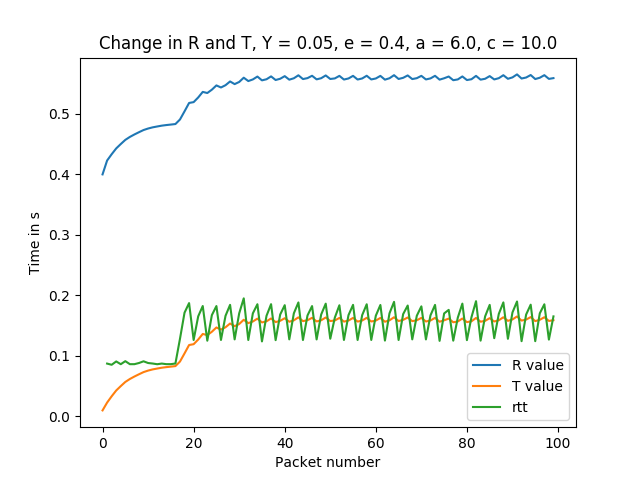
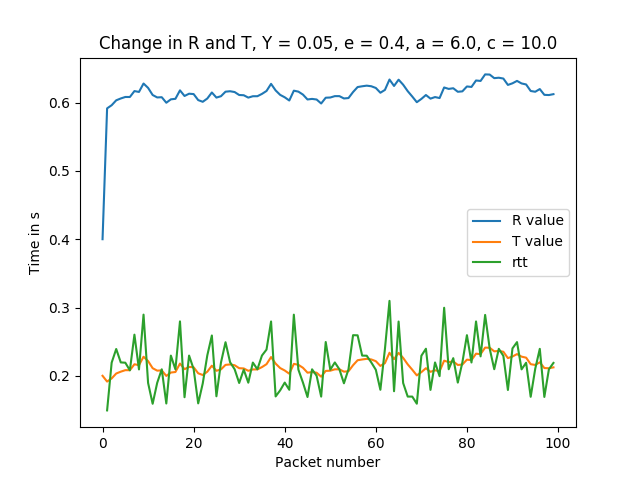
added jitter and formatting

diff --git a/assignment1/srcs/client.py b/assignment1/srcs/client.py
@@ -19,7 +19,8 @@
 ##
 #############################################################################
 import matplotlib as mpl
-mpl.use('Agg')
+
+mpl.use("Agg")
 
 from scapy.all import *
 import matplotlib.pyplot as plt
@@ -40,35 +41,34 @@ class Client3WH:
         # selecting a source port at random
         self.sport = random.randrange(0, 2**16)
 
-        self.next_seq = 0                       # TCP's next sequence number
-        self.next_ack = 0                       # TCP's next acknowledgement number
+        self.next_seq = 0  # TCP's next sequence number
+        self.next_ack = 0  # TCP's next acknowledgement number
 
-        self.ip = IP(dst=self.dip)              # IP header
+        self.ip = IP(dst=self.dip)  # IP header
 
         self.connected = False
         self.timeout = 3
 
-        #New stuff
-        self.R = 0.4 #Our timeout that adapts
+        # New stuff
+        self.R = 0.4  # Our timeout that adapts
         self.a = 6.0
         self.c = 10.0
         self.b = (self.a - 1) / self.a
         self.d = (self.c - 1) / self.c
-        self.Y = 0.05 #Retransmission limit
-        self.e = 0.4 #Small constant
+        self.Y = 0.05  # Retransmission limit
+        self.e = 0.4  # Small constant
 
-        self.T = 0.02 #Smoothed RTT
-        self.V = 0.01 #Variance 
+        self.T = 0.2  # Smoothed RTT
+        self.V = 0.01  # Variance
 
         self.avg_t = 0
-        
+
         self.timeouts = 0
-        
+
         self.rg = [self.R]
         self.tg = [self.T]
         self.rttg = []
         self.x_axis = [0]
-
 
     def _start_sniffer(self):
         t = threading.Thread(target=self._sniffer)
@@ -81,16 +81,20 @@ class Client3WH:
 
     def _sniffer(self):
         while self.connected:
-            sniff(prn=lambda x: self._handle_packet(
-                x), lfilter=lambda x: self._filter(x), count=1, timeout=self.timeout)
+            sniff(
+                prn=lambda x: self._handle_packet(x),
+                lfilter=lambda x: self._filter(x),
+                count=1,
+                timeout=self.timeout,
+            )
 
     def _handle_packet(self, pkt):
         """TODO(1): Handle incoming packets from the server and acknowledge them accordingly. Here are some pointers on
-           what you need to do:
-           1. If the incoming packet has data (or payload), send an acknowledgement (TCP) packet with correct 
-              `sequence` and `acknowledgement` numbers.
-           2. If the incoming packet is a FIN (or FINACK) packet, send an appropriate acknowledgement or FINACK packet
-              to the server with correct `sequence` and `acknowledgement` numbers.
+        what you need to do:
+        1. If the incoming packet has data (or payload), send an acknowledgement (TCP) packet with correct
+           `sequence` and `acknowledgement` numbers.
+        2. If the incoming packet is a FIN (or FINACK) packet, send an appropriate acknowledgement or FINACK packet
+           to the server with correct `sequence` and `acknowledgement` numbers.
         """
 
         ### BEGIN: ADD YOUR CODE HERE ... ###
@@ -98,158 +102,146 @@ class Client3WH:
         if TCP in pkt:
             tcp_layer = pkt[TCP]
             ip_src = pkt[IP].src
-            if (ip_src == self.dip): #Filter out outgoing packets
-                #pkt.show()
+            if ip_src == self.dip:  # Filter out outgoing packets
+                # pkt.show()
 
-                if tcp_layer.flags == 'F':  
-                    self.next_ack = tcp_layer.seq + 1  
-                    finack_pkt = self.ip/TCP(sport=self.sport, dport=self.dport, flags='FA', seq=self.next_seq, ack=self.next_ack)
-                    send(ack_pkt)
-                    self.next_seq += 1
-
-
-                if tcp_layer.flags == 'FA':  
+                if tcp_layer.flags == "F":
                     self.next_ack = tcp_layer.seq + 1
-                    ack_pkt = self.ip/TCP(sport=self.sport, dport=self.dport, flags='A', seq=self.next_seq, ack=self.next_ack)
+                    finack_pkt = self.ip / TCP(
+                        sport=self.sport,
+                        dport=self.dport,
+                        flags="FA",
+                        seq=self.next_seq,
+                        ack=self.next_ack,
+                    )
                     send(ack_pkt)
                     self.next_seq += 1
-        
-        
-        
-        
-        
-        
-        
-        
-        
-        
-        
-        
-        
-        
-        
-        
+
+                if tcp_layer.flags == "FA":
+                    self.next_ack = tcp_layer.seq + 1
+                    ack_pkt = self.ip / TCP(
+                        sport=self.sport,
+                        dport=self.dport,
+                        flags="A",
+                        seq=self.next_seq,
+                        ack=self.next_ack,
+                    )
+                    send(ack_pkt)
+                    self.next_seq += 1
 
         ### END: ADD YOUR CODE HERE ... #####
 
     def connect(self):
         """TODO(2): Implement TCP's three-way-handshake protocol for establishing a connection. Here are some
-           pointers on what you need to do:
-           1. Handle SYN -> SYNACK -> ACK packets.
-           2. Make sure to update the `sequence` and `acknowledgement` numbers correctly, along with the 
-              TCP `flags`.
+        pointers on what you need to do:
+        1. Handle SYN -> SYNACK -> ACK packets.
+        2. Make sure to update the `sequence` and `acknowledgement` numbers correctly, along with the
+           TCP `flags`.
         """
 
         ### BEGIN: ADD YOUR CODE HERE ... ###
-        
-        syn_pkt = self.ip/TCP(sport=self.sport, dport=self.dport, flags='S', seq=self.next_seq)
-        self.next_seq += 1  
+
+        syn_pkt = self.ip / TCP(
+            sport=self.sport, dport=self.dport, flags="S", seq=self.next_seq
+        )
+        self.next_seq += 1
         send(syn_pkt)
 
         bpf_filter = "tcp and host {} and port {}".format(self.dip, self.dport)
         synack_pkt = sniff(filter=bpf_filter, count=1)[0]
 
-        #while (synack_pkt[TCP].flags != 18):
-            #synack_pkt = sniff(filter=bpf_filter, count=1)[0]
-        self.next_ack = synack_pkt[TCP].seq + 1  
-        ack_pkt = self.ip/TCP(sport=self.sport, dport=self.dport, flags='A', seq=self.next_seq, ack=self.next_ack)
+        # while (synack_pkt[TCP].flags != 18):
+        # synack_pkt = sniff(filter=bpf_filter, count=1)[0]
+        self.next_ack = synack_pkt[TCP].seq + 1
+        ack_pkt = self.ip / TCP(
+            sport=self.sport,
+            dport=self.dport,
+            flags="A",
+            seq=self.next_seq,
+            ack=self.next_ack,
+        )
         send(ack_pkt)
-
-        
-        
-        
-        
-        
-        
-        
-        
-        
-        
-        
-        
-        
-        
-        
-        
-        
 
         ### END: ADD YOUR CODE HERE ... #####
 
         self.connected = True
         self._start_sniffer()
-        print('Connection Established')
+        print("Connection Established")
 
     def close(self):
         """TODO(3): Implement TCP's three-way-handshake protocol for closing a connection. Here are some
-           pointers on what you need to do:
-           1. Handle FIN -> FINACK -> ACK packets.
-           2. Make sure to update the `sequence` and `acknowledgement` numbers correctly, along with the 
-              TCP `flags`.
+        pointers on what you need to do:
+        1. Handle FIN -> FINACK -> ACK packets.
+        2. Make sure to update the `sequence` and `acknowledgement` numbers correctly, along with the
+           TCP `flags`.
         """
 
         ### BEGIN: ADD YOUR CODE HERE ... ###
-        
-        
-        fin_pkt = self.ip/TCP(sport=self.sport, dport=self.dport, flags='FA', seq=self.next_seq, ack=self.next_ack)
+
+        fin_pkt = self.ip / TCP(
+            sport=self.sport,
+            dport=self.dport,
+            flags="FA",
+            seq=self.next_seq,
+            ack=self.next_ack,
+        )
         send(fin_pkt)
 
-    
-
-        #Handling the FINACK from server is handled in handle_packet
-        
-        
-        
-        
-        
-        
+        # Handling the FINACK from server is handled in handle_packet
 
         ### END: ADD YOUR CODE HERE ... #####
 
         self.connected = False
-        print('Connection Closed')
+        print("Connection Closed")
 
     def send(self, payload):
         """TODO(4): Create and send TCP's data packets for sharing the given message (or file):
-           1. Make sure to update the `sequence` and `acknowledgement` numbers correctly, along with the 
-              TCP `flags`.
+        1. Make sure to update the `sequence` and `acknowledgement` numbers correctly, along with the
+           TCP `flags`.
         """
 
         ### BEGIN: ADD YOUR CODE HERE ... ###
-        
-        
-        
-        data_pkt = self.ip/TCP(sport=self.sport, dport=self.dport, flags="PA", seq=self.next_seq, ack=self.next_ack)/Raw(load=payload)
+
+        data_pkt = (
+            self.ip
+            / TCP(
+                sport=self.sport,
+                dport=self.dport,
+                flags="PA",
+                seq=self.next_seq,
+                ack=self.next_ack,
+            )
+            / Raw(load=payload)
+        )
 
         start_time = time.time()
         response = sr1(data_pkt, timeout=self.R)
         if response:
-            t = time.time() - start_time #Around 0.025
-            #print(self.R)
-            #print(t)
-            self.avg_t  += t
-            self.V = self.d * self.V + ((t - self.T)**2)/self.c
-            self.T = self.b * self.T + t/self.a
-            self.R = self.T + self.e*((self.V*(1-self.Y)/self.Y)**(1/2))
-            
+            t = time.time() - start_time  # Around 0.025
+            # print(self.R)
+            # print(t)
+            self.avg_t += t
+            self.V = self.d * self.V + ((t - self.T) ** 2) / self.c
+            self.T = self.b * self.T + t / self.a
+            self.R = self.T + self.e * ((self.V * (1 - self.Y) / self.Y) ** (1 / 2))
+
             self.rg.append(self.R)
             self.tg.append(self.T)
             self.rttg.append(t)
             self.x_axis.append(self.x_axis[-1] + 1)
             self.next_seq += len(payload)
-            
+
         else:
             self.timeouts += 1
             self.avg_t += self.R
-        
 
         ### END: ADD YOUR CODE HERE ... #####
 
 
 def main():
-    """Parse command-line arguments and call client function """
+    """Parse command-line arguments and call client function"""
     if len(sys.argv) != 3:
-        sys.exit(
-            "Usage: ./client-3wh.py [Server IP] [Server Port] < [message]")
+        sys.exit("Usage: ./client-3wh.py [Server IP] [Server Port] < [message]")
     server_ip = sys.argv[1]
     server_port = int(sys.argv[2])
 
@@ -260,14 +252,18 @@ def main():
     x = 100
     for i in range(1, x):
         client.send(message)
-    print(client.avg_t/x)
-    
+    print(client.avg_t / x)
+
     plt.plot(client.x_axis, client.rg, label="R value")
     plt.plot(client.x_axis, client.tg, label="T value")
     plt.plot(client.x_axis[1:], client.rttg, label="rtt")
     plt.xlabel("Packet number")
     plt.ylabel("Time in s")
-    plt.title("Change in R and T, Y = {}, e = {}, a = {}, c = {}".format(client.Y, client.e, client.a, client.c))
+    plt.title(
+        "Change in R and T, Y = {}, e = {}, a = {}, c = {}".format(
+            client.Y, client.e, client.a, client.c
+        )
+    )
     plt.legend()
     plt.show()
     plt.savefig("graph.png")
@@ -277,4 +273,3 @@ def main():
 
 if __name__ == "__main__":
     main()
-
